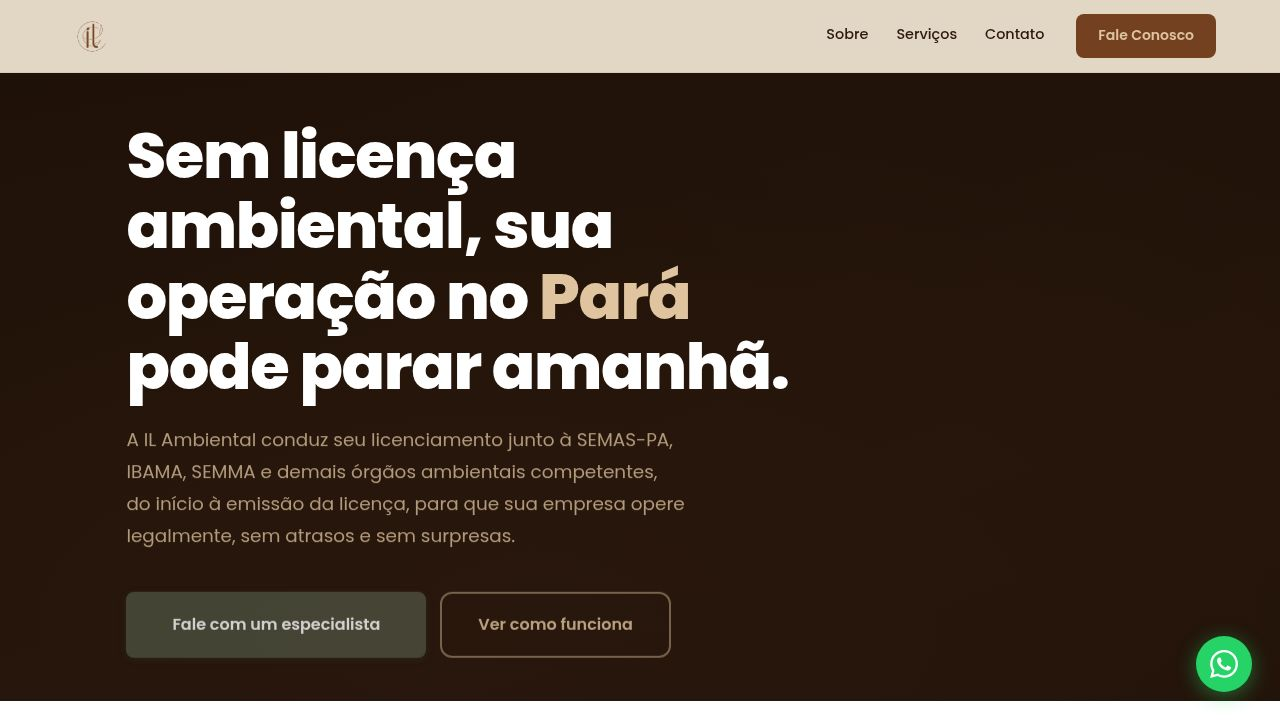
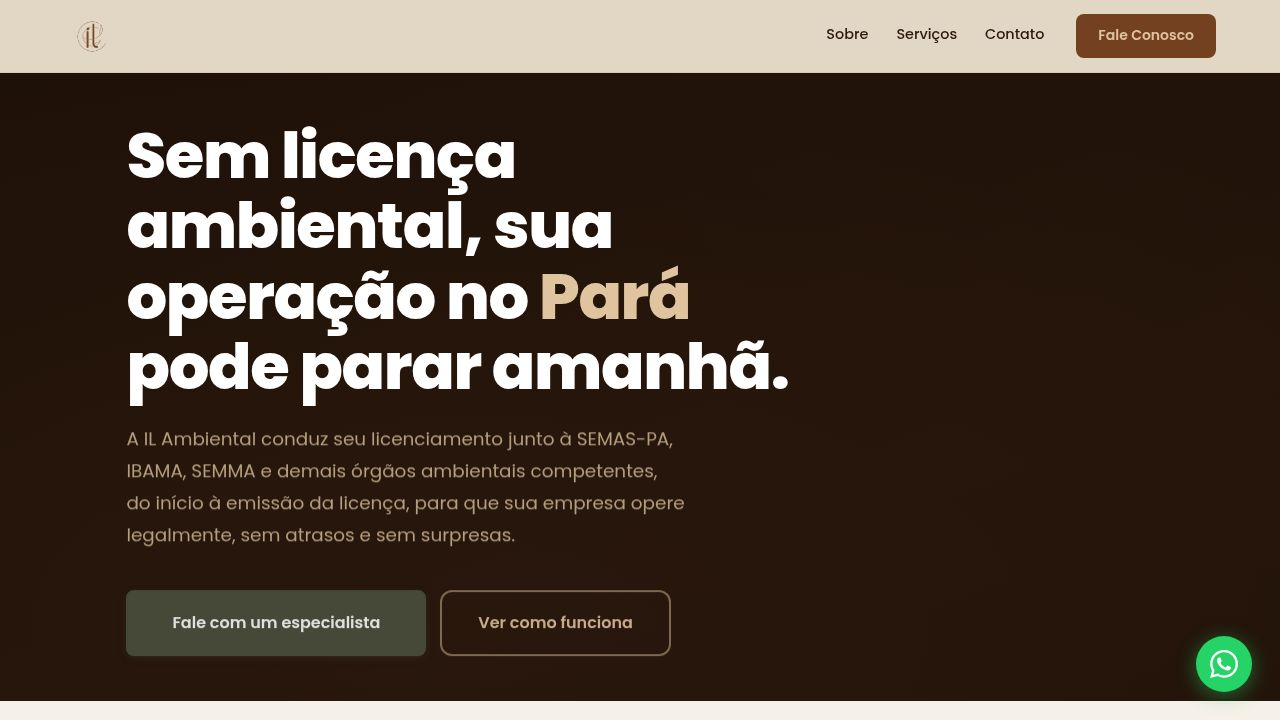
Improve website layout and visual consistency across multiple pages
Update CSS and JSX for the home, about, and contact pages to fix layout issues, adjust spacing, and ensure consistent visual styling.

Replit-Commit-Author: Agent
Replit-Commit-Session-Id: ea812e3b-796e-4813-9efd-bacc2f4082d0
Replit-Commit-Checkpoint-Type: full_checkpoint
Replit-Commit-Event-Id: c7ff9235-779f-4a59-a84e-82469c01185f
Replit-Commit-Screenshot-Url: https://storage.googleapis.com/screenshot-production-us-central1/9a73dc64-90d7-4f41-b448-8bc31e40e49f/ea812e3b-796e-4813-9efd-bacc2f4082d0/m7uwKfs
Replit-Helium-Checkpoint-Created: true

diff --git a/artifacts/il-ambiental-site/src/index.css b/artifacts/il-ambiental-site/src/index.css
@@ -1792,3 +1792,24 @@ a {
   }
 
 }
+
+/* ============================================
+   DESKTOP FIXES — IL AMBIENTAL
+   Correções de sobreposição e layout
+   ============================================ */
+
+/* 1. Contato: padding-bottom para o card não cobrir o subtítulo */
+.contact-hero-section {
+  padding-bottom: 140px !important;
+}
+
+/* 5. About-strip: prevenir margin collapse + alinhar filhos */
+.about-strip {
+  overflow: hidden !important;
+}
+
+.about-strip > div {
+  display: flex !important;
+  flex-direction: column !important;
+  justify-content: center !important;
+}

diff --git a/artifacts/il-ambiental-site/src/pages/contato.tsx b/artifacts/il-ambiental-site/src/pages/contato.tsx
@@ -109,7 +109,7 @@ export function Contato() {
       </section>
 
       {/* CONTACT FORMS & INFO */}
-      <section style={{ maxWidth: 900, margin: "40px auto 0", padding: "0 24px" }}>
+      <section style={{ maxWidth: 900, margin: "0 auto", padding: "0 24px" }}>
         <div style={{ display: "grid", gridTemplateColumns: "repeat(auto-fit, minmax(320px, 1fr))", gap: 20 }}>
 
           {/* Form Card */}
@@ -251,7 +251,7 @@ export function Contato() {
       </section>
 
       {/* REGIONAL CARD */}
-      <section style={{ maxWidth: 900, margin: "20px auto 0", padding: "0 24px" }}>
+      <section style={{ maxWidth: 900, margin: "0 auto", padding: "0 24px" }}>
         <div style={{ background: "#452816", borderRadius: 16, padding: "48px clamp(28px, 5vw, 56px)", display: "flex", flexWrap: "wrap", gap: 40, alignItems: "center" }}>
           <div style={{ flex: "1 1 280px" }}>
             <span className="section-caption" data-aos="fade-up" style={{ color: "#B5895E" }}>Atuação regional</span>

diff --git a/artifacts/il-ambiental-site/src/pages/home.tsx b/artifacts/il-ambiental-site/src/pages/home.tsx
@@ -28,7 +28,7 @@ export function Home() {
       </section>
 
       {/* TRUST BAR */}
-      <div style={{ background: "#fff", borderBottom: "1px solid rgba(181,137,94,0.25)", padding: "20px 0" }}>
+      <div style={{ background: "#F5F0E8", borderBottom: "1px solid rgba(181,137,94,0.25)", padding: "20px 0" }}>
         <div className="trust-bar-grid">
           {[
             { value: "+30", label: "empresas regularizadas" },

diff --git a/artifacts/il-ambiental-site/src/pages/sobre.tsx b/artifacts/il-ambiental-site/src/pages/sobre.tsx
@@ -63,7 +63,7 @@ export function Sobre() {
           <span className="section-caption" data-aos="fade-up">Por que a IL</span>
           <h2 data-aos="fade-up" style={{ fontWeight: 800, fontSize: "clamp(1.4rem, 2.5vw, 1.9rem)", color: "#2C1A0E", margin: 0, marginBottom: 32 }}>O que nos diferencia</h2>
         </div>
-        <div style={{ display: "grid", gridTemplateColumns: "repeat(auto-fit, minmax(220px, 1fr))", gap: 20 }}>
+        <div style={{ display: "grid", gridTemplateColumns: "repeat(2, 1fr)", gap: 20 }}>
           {[
             { icon: "🌿", title: "Especialização Regional", desc: "Conhecemos as exigências da SEMAS-PA, do IBAMA e dos demais órgãos ambientais em profundidade. O resultado: menos erros, menos atrasos.", dark: true },
             { icon: "⚡", title: "Agilidade no Processo", desc: "Documentação correta desde o início significa menos idas e vindas aos órgãos. Resposta em 24h.", dark: true },